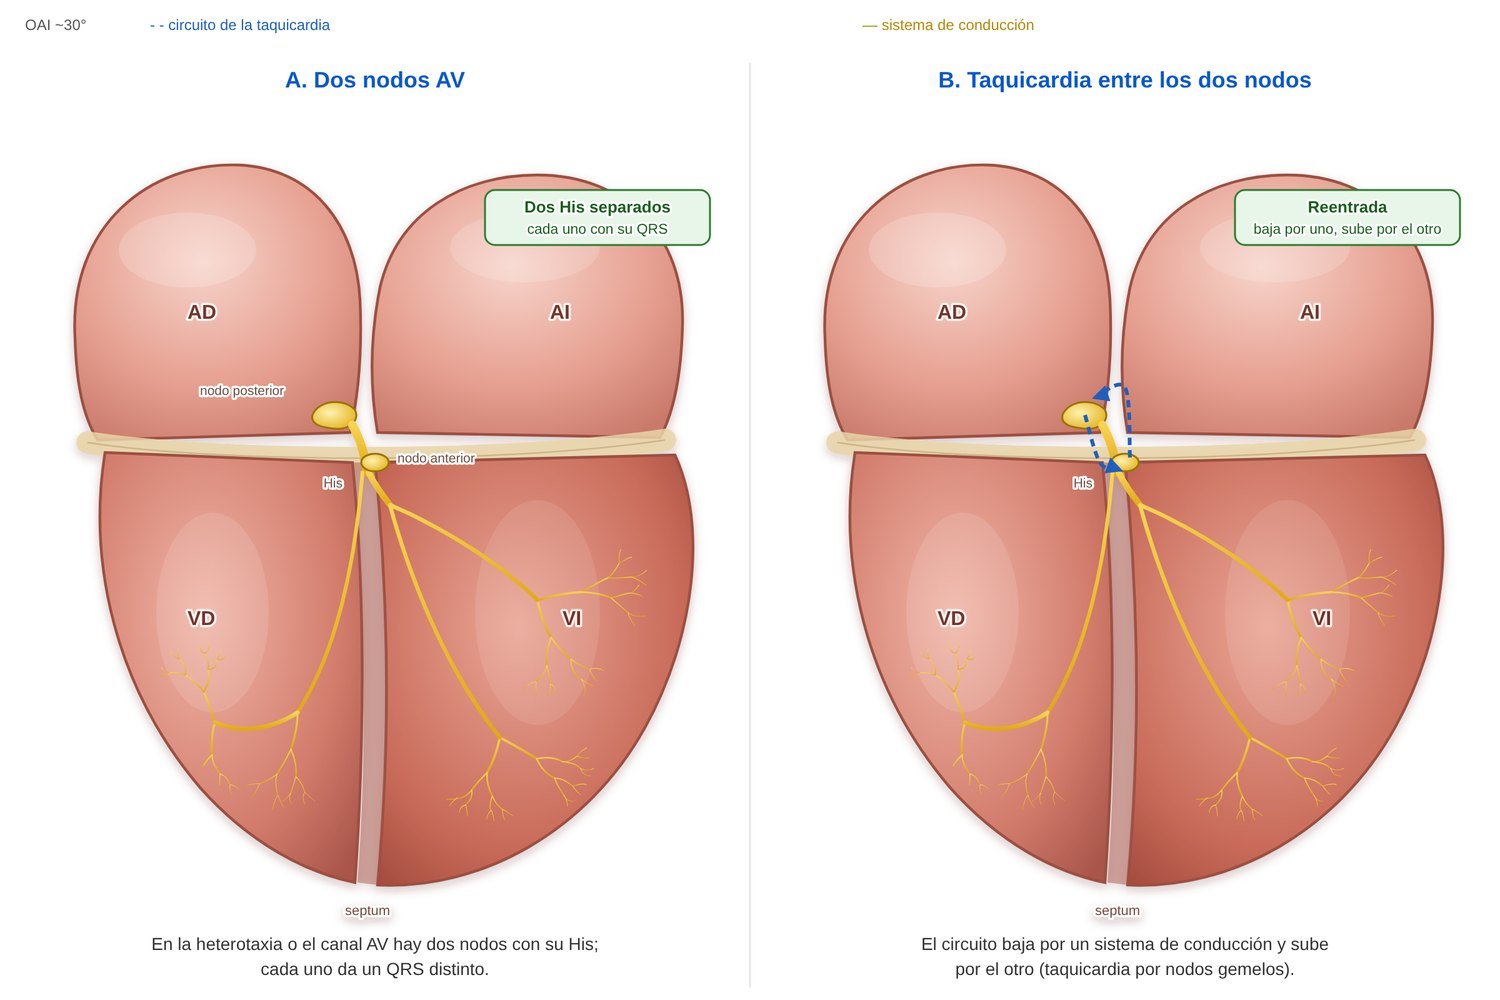
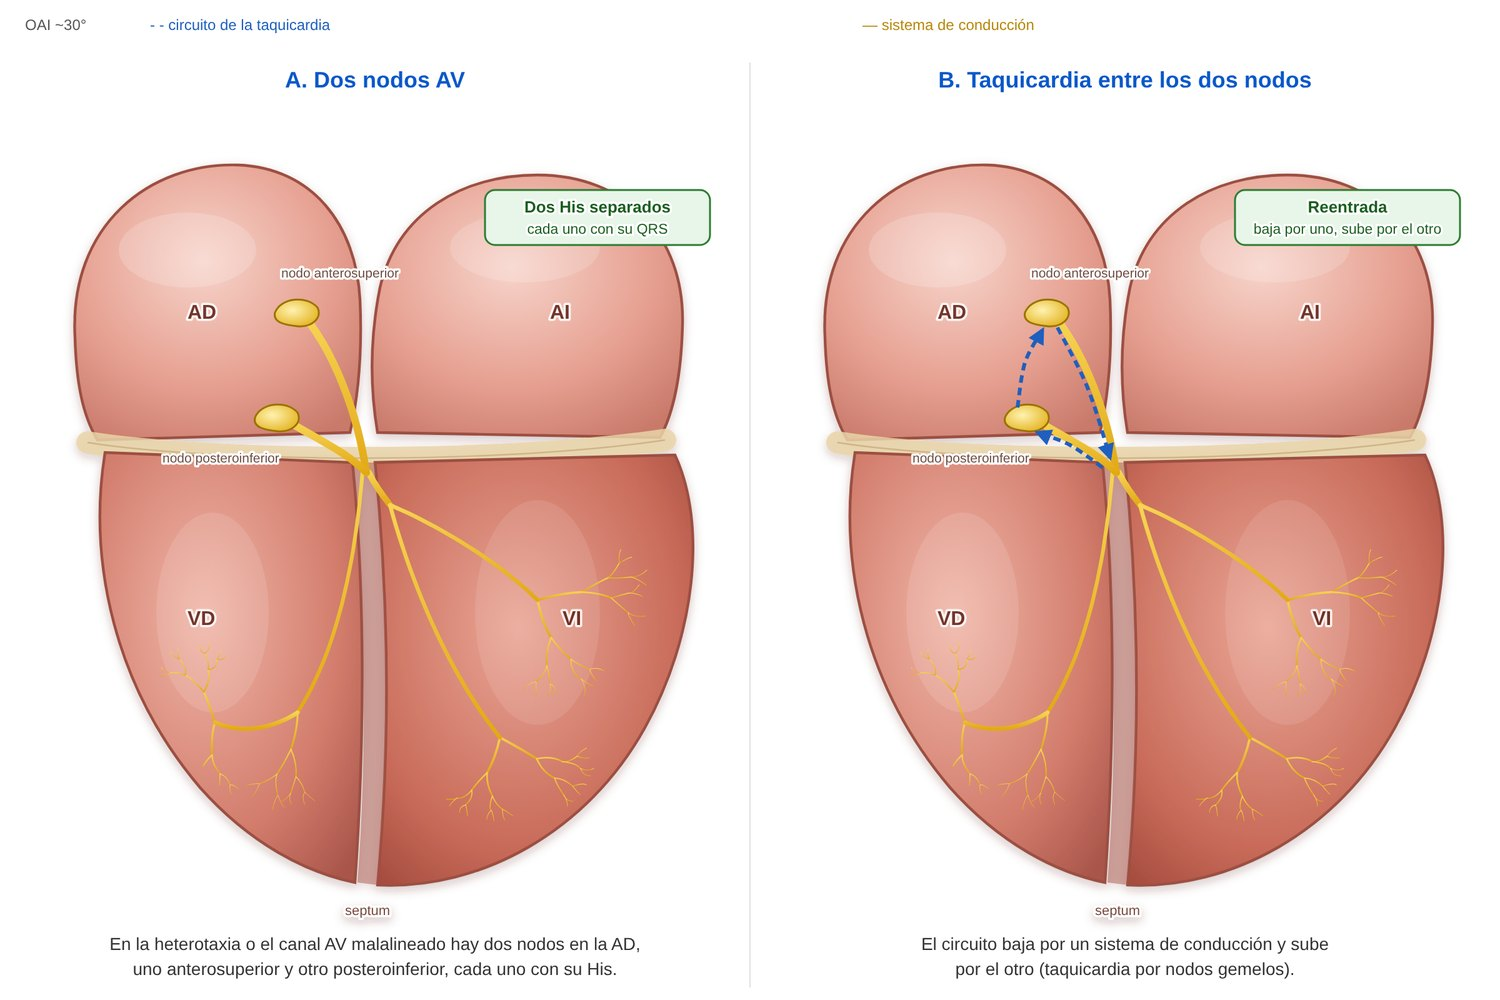
Esquema de nodos gemelos: nodo anterosuperior y posteroinferior en la AD
Claude-Session: https://claude.ai/code/session_01Pw5rjt62KK5LeJZoEyFiaM

diff --git a/sw.js b/sw.js
@@ -1,6 +1,6 @@
 // Permite instalar la app y abrirla sin conexión. Primero la red (siempre lo último publicado); si no hay, la copia.
 // Si cambiás un archivo, subí CACHE_VERSION.
-const CACHE_VERSION = 'mef-v97';
+const CACHE_VERSION = 'mef-v98';
 const ARCHIVOS = ['./', './index.html', './manifest.json', './iconos/icon-192.png', './iconos/icon-512.png'];
 self.addEventListener('install', e => e.waitUntil(caches.open(CACHE_VERSION).then(c => c.addAll(ARCHIVOS)).then(() => self.skipWaiting())));
 self.addEventListener('activate', e => e.waitUntil(caches.keys().then(ks => Promise.all(ks.filter(k => k !== CACHE_VERSION).map(k => caches.delete(k)))).then(() => self.clients.claim())));

diff --git a/herramientas/esquemas/esquemas.py b/herramientas/esquemas/esquemas.py
@@ -99,7 +99,7 @@ DEFS = '''<defs>
 
 def panel(x, title, body, cap, rot=('nodo', 'his')):
     return (f'<g transform="translate({x},70)"><text x="300" y="0" font-size="18" font-weight="700" text-anchor="middle" fill="#0a58ca">{E(title)}</text>'
-            f'<g filter="url(#sh)">{heart(rot)}</g>{body}'
+            f'<g filter="url(#sh)">{heart(tuple(r for r in rot if r != "sin_nodo"), "sin_nodo" not in rot)}</g>{body}'
             + ''.join(f'<text x="300" y="{690 + 20 * i}" font-size="14" text-anchor="middle" fill="#333">{l}</text>' for i, l in enumerate(E(cap).split('|')))
             + '</g>')
 
@@ -278,14 +278,20 @@ F['bbr'] = (
      + box('His pasivo', 'el VV cambia antes que el HH', 'warn'),
      'El circuito está en el miocardio: el His se activa|en forma pasiva y no predice el VV.'), [L_TSV, L_PAS, L_CS])
 
-TWIN = '<ellipse cx="300" cy="300" rx="11" ry="7" fill="url(#gnode)" stroke="#9a7300" stroke-width="1.5"/>'
+def _nodo(x, y):
+    return f'<path d="M{x-18},{y} C{x-13},{y-12} {x+7},{y-14} {x+16},{y-4} C{x+20},{y+4} {x+12},{y+12} {x},{y+11} C{x-10},{y+10} {x-20},{y+8} {x-18},{y} Z" fill="url(#gnode)" stroke="#9a7300" stroke-width="1.5"/>'
+# nodo anterosuperior y posteroinferior en la AD, cada uno con su His, unidos al septum (cabestrillo de Mönckeberg)
+TWIN = ('<path d="M246,186 C268,215 286,260 293,308" stroke="url(#gcs)" stroke-width="6" fill="none" stroke-linecap="round"/>'
+        '<path d="M232,268 C255,282 278,292 293,308" stroke="url(#gcs)" stroke-width="6" fill="none" stroke-linecap="round"/>'
+        + _nodo(238, 180) + _nodo(222, 264))
+TWL = note(225, 152, 'nodo anterosuperior', '#6d4c41') + note(130, 300, 'nodo posteroinferior', '#6d4c41')
 F['twin'] = (
-    ('A. Dos nodos AV', TWIN + note(318, 300, 'nodo anterior', '#6d4c41') + note(160, 246, 'nodo posterior', '#6d4c41')
-     + box('Dos His separados', 'cada uno con su QRS'),
-     'En la heterotaxia o el canal AV hay dos nodos con su His;|cada uno da un QRS distinto.', ('his',)),
-    ('B. Taquicardia entre los dos nodos', TWIN + circ((268, 262), (280, 300), (296, 306)) + circ((304, 296), (300, 240), (276, 248))
+    ('A. Dos nodos AV', TWIN + TWL + box('Dos His separados', 'cada uno con su QRS'),
+     'En la heterotaxia o el canal AV malalineado hay dos nodos en la AD,|uno anterosuperior y otro posteroinferior, cada uno con su His.', ('sin_nodo',)),
+    ('B. Taquicardia entre los dos nodos', TWIN + TWL + circ((246, 192), (270, 240), (288, 296)) + circ((282, 304), (256, 286), (230, 276))
+     + circ((214, 256), (220, 220), (234, 194))
      + box('Reentrada', 'baja por uno, sube por el otro'),
-     'El circuito baja por un sistema de conducción y sube|por el otro (taquicardia por nodos gemelos).', ('his',)), [L_TSV, L_CS])
+     'El circuito baja por un sistema de conducción y sube|por el otro (taquicardia por nodos gemelos).', ('sin_nodo',)), [L_TSV, L_CS])
 
 TVFP = circ((330, 420), (360, 470), (395, 515)) + circ((405, 530), (380, 470), (345, 430))
 F['tvf'] = (

diff --git a/herramientas/esquemas/corazon.py b/herramientas/esquemas/corazon.py
@@ -21,7 +21,7 @@ def purkinje(x, y, ang, length, w, depth, out):
     for d in (-0.45, 0.4):
         purkinje(x2, y2, ang + d + random.uniform(-0.15, 0.15), length * random.uniform(0.6, 0.78), w * 0.68, depth - 1, out)
 
-def heart(rotulos=('nodo', 'his')):
+def heart(rotulos=('nodo', 'his'), nodo=True):
     random.seed(4)
     o = []
     # aurículas grandes y redondeadas
@@ -43,10 +43,11 @@ def heart(rotulos=('nodo', 'his')):
     # ---- sistema de conducción ----
     cs = []
     # nodo AV compacto (forma de media luna) y extensiones
-    cs.append('<path d="M250,262 C255,250 275,248 284,258 C288,266 280,274 268,273 C258,272 248,270 250,262 Z" fill="url(#gnode)" stroke="#9a7300" stroke-width="1.5"/>')
-    # His penetrante
-    His = bez((282, 270), (288, 282), (292, 292), (293, 308))
-    cs.append('<path d="M' + ' L'.join(f'{x:.1f},{y:.1f}' for x, y in His) + '" stroke="url(#gcs)" stroke-width="7" fill="none" stroke-linecap="round"/>')
+    if nodo:
+        cs.append('<path d="M250,262 C255,250 275,248 284,258 C288,266 280,274 268,273 C258,272 248,270 250,262 Z" fill="url(#gnode)" stroke="#9a7300" stroke-width="1.5"/>')
+        # His penetrante
+        His = bez((282, 270), (288, 282), (292, 292), (293, 308))
+        cs.append('<path d="M' + ' L'.join(f'{x:.1f},{y:.1f}' for x, y in His) + '" stroke="url(#gcs)" stroke-width="7" fill="none" stroke-linecap="round"/>')
     # rama derecha: cordón fino por el septum del VD y la banda moderadora
     rb = bez((290, 308), (284, 380), (270, 450), (238, 500))
     cs.append('<path d="M' + ' L'.join(f'{x:.1f},{y:.1f}' for x, y in rb) + '" stroke="url(#gcs)" stroke-width="3" fill="none" stroke-linecap="round"/>')
